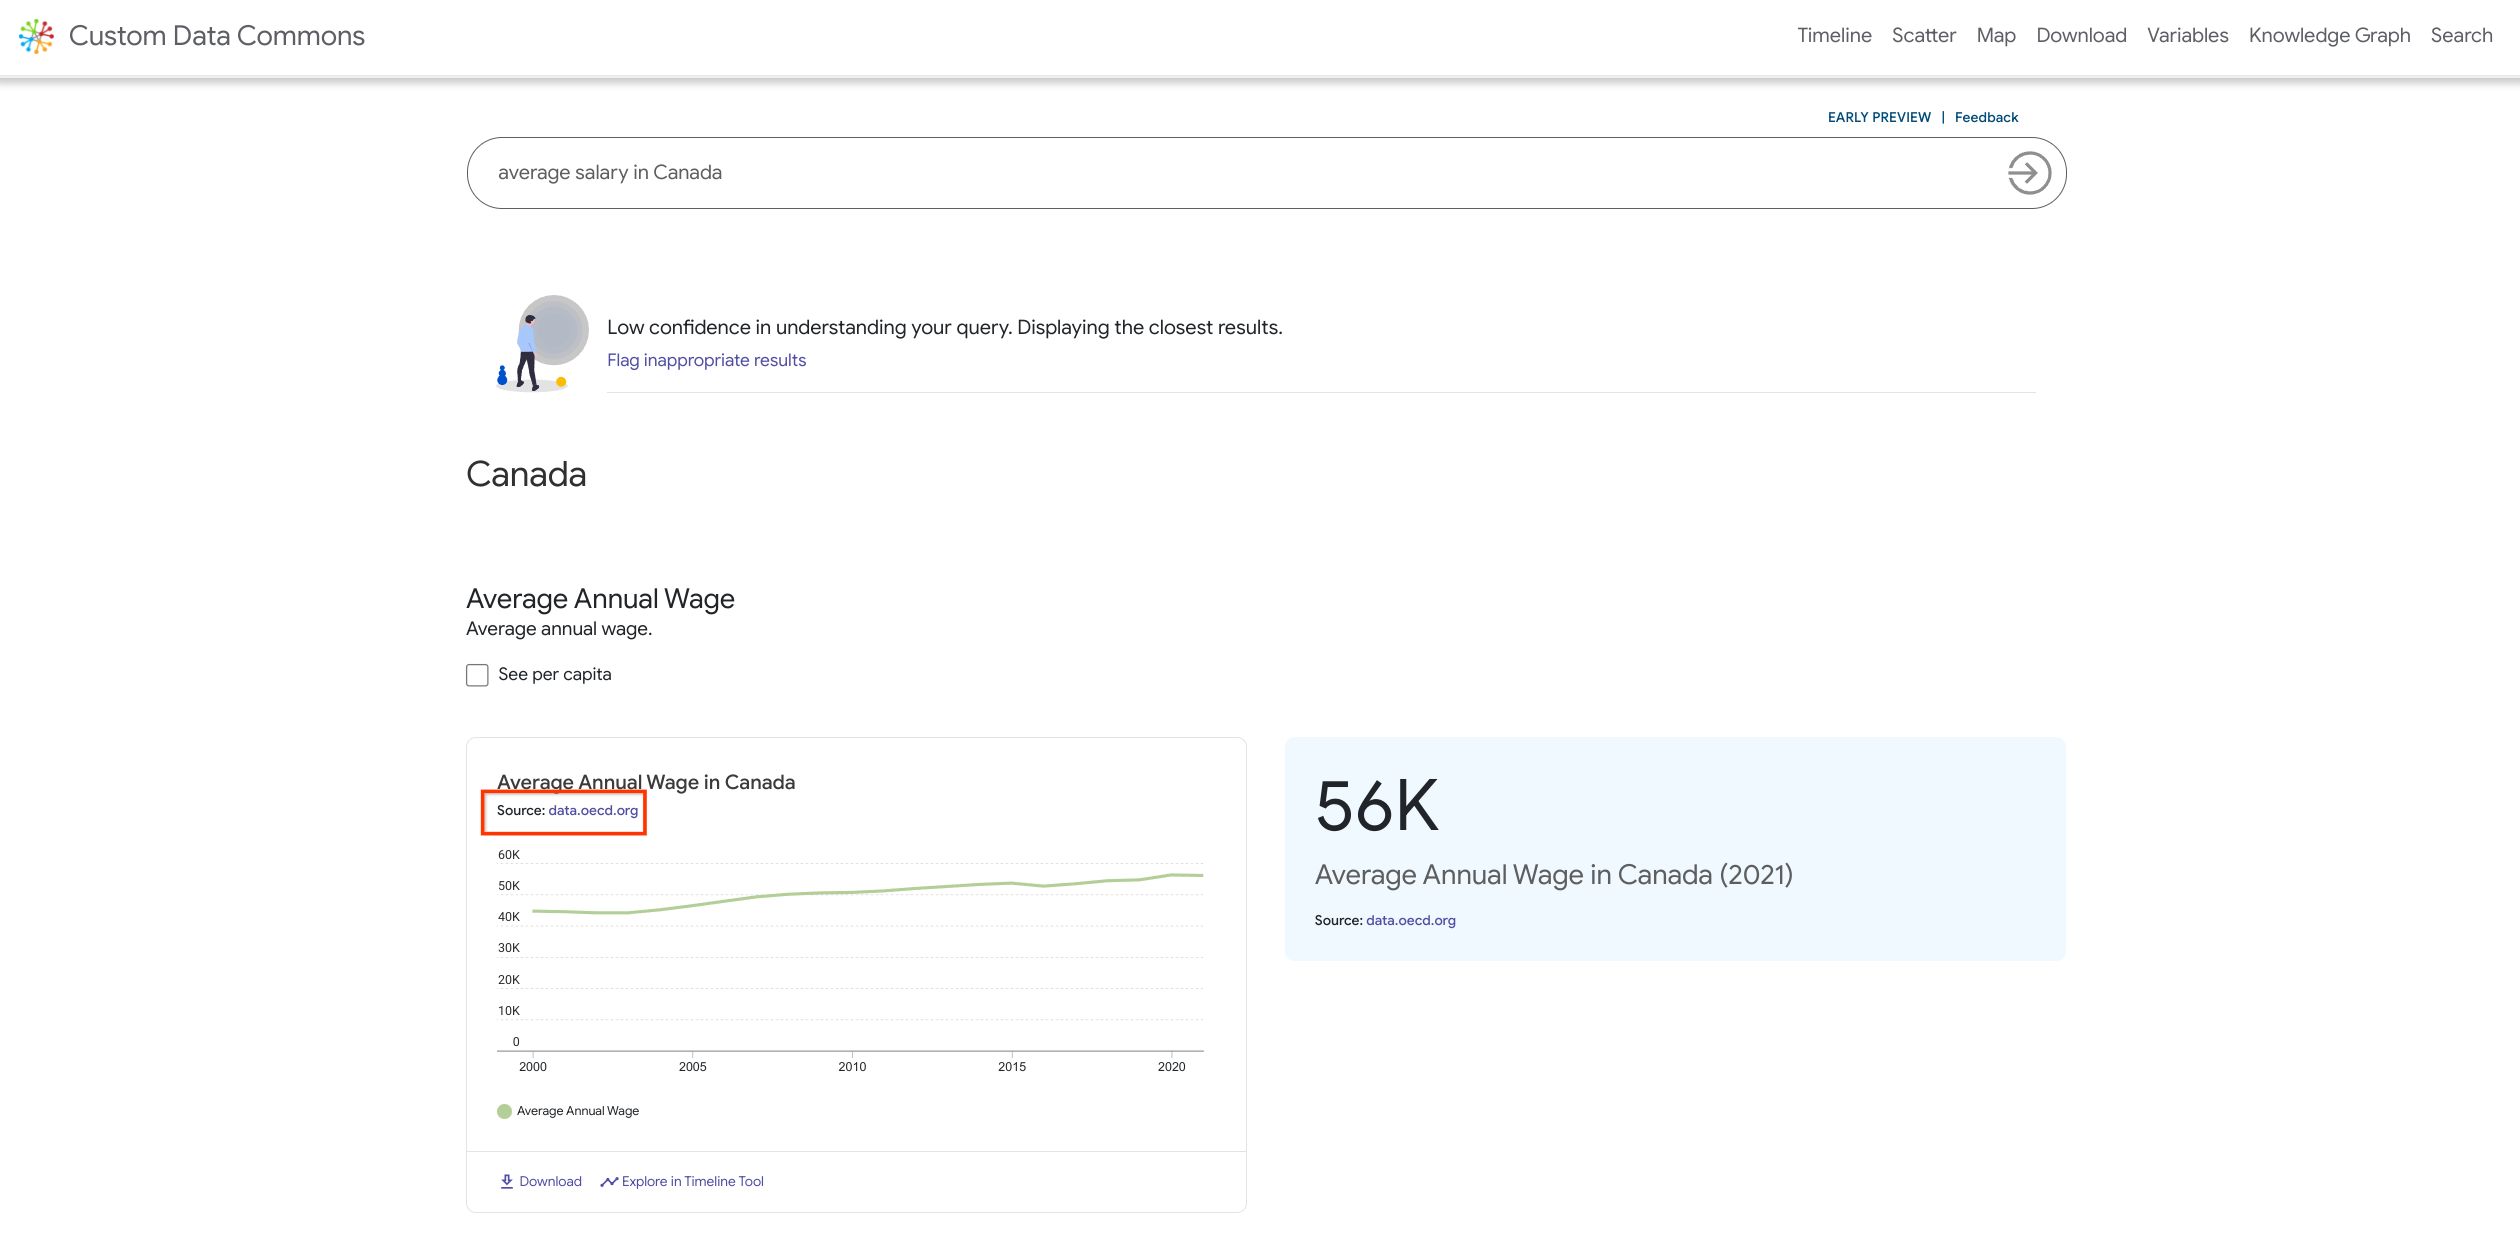
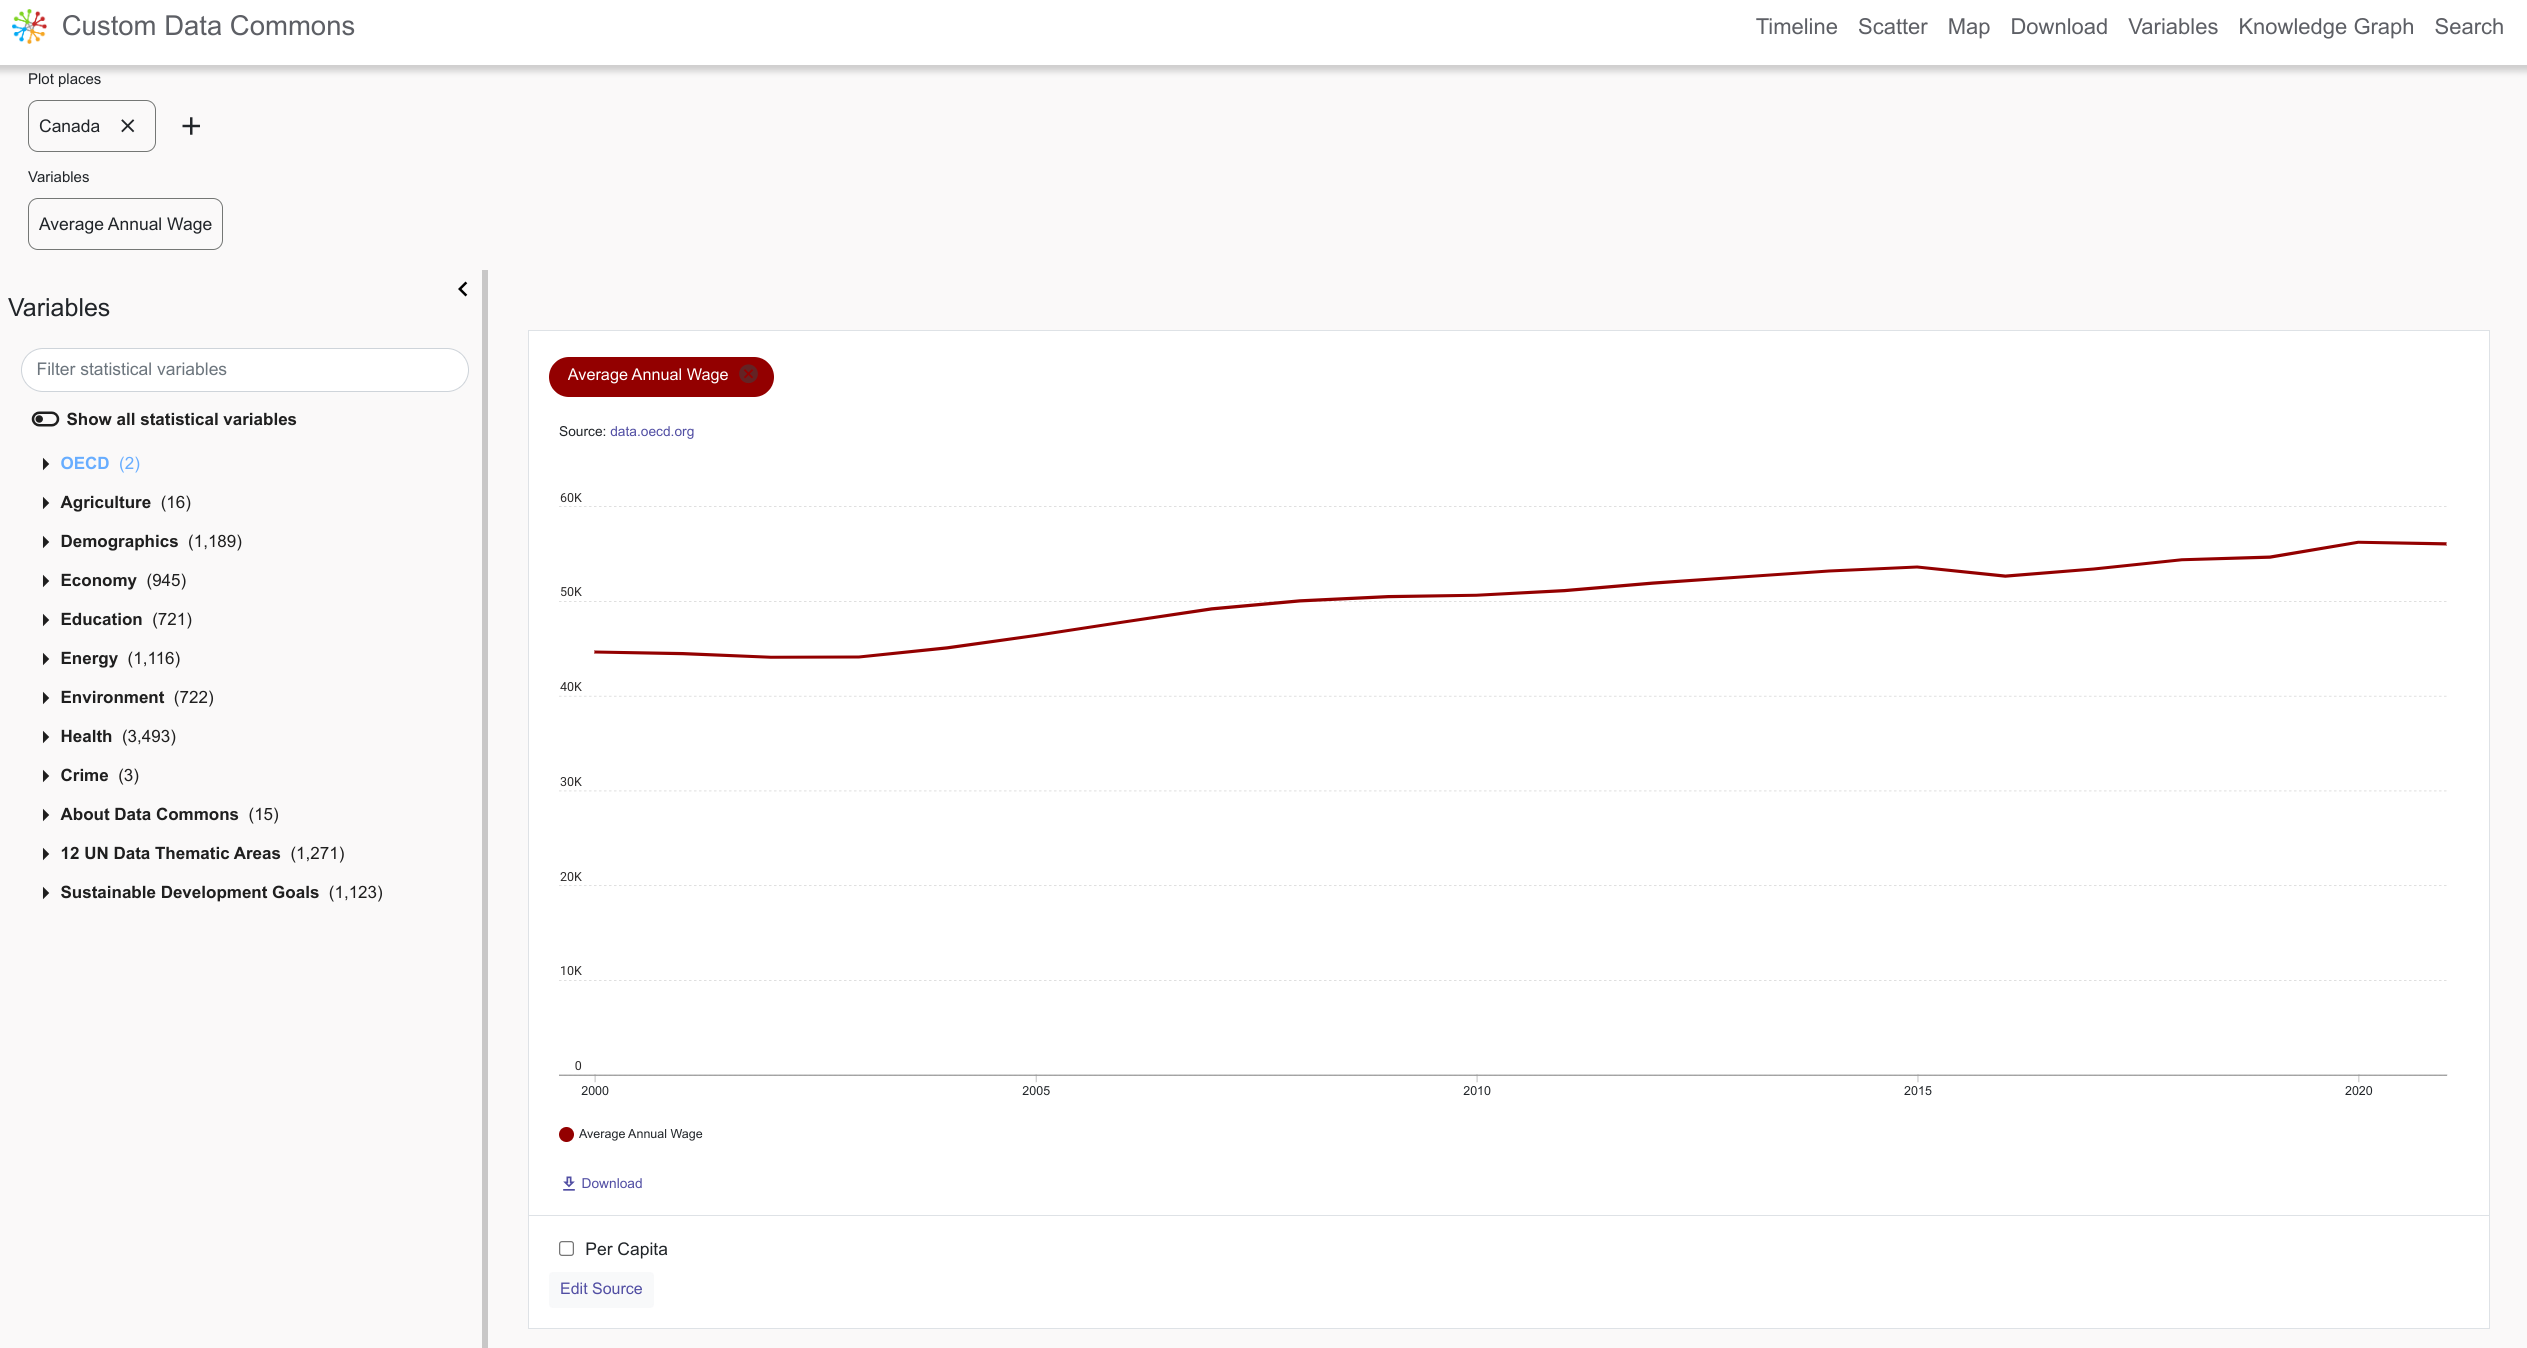
Update tools (#413)
* stable release doc

* Minor formatting fixes

* Removed references to personal directories.

* Update links to renamed file.

* fix link Markdown

* Added alternate procedure for recloning.

* Fixes from Keyur

* fixed description of releases

* Updated instructions and screenshots for new tools UI.

* Added new screenshot

* Updated instructions and screenshots for new tools UI.

* Added new screenshot

diff --git a/custom_dc/quickstart.md b/custom_dc/quickstart.md
@@ -178,13 +178,17 @@ Tip: When you restart the Docker instance, all data in the SQLite database is lo
 -v $PWD/custom_dc/sample/datacommons:/sqlite
 ```
 
-Now visit the Timeline explorer at [http://localhost:8080/tools/timeline](http://localhost:8080/tools/timeline). You'll now see the new variables and can explore the new data. Try entering a country:
+Now click the **Timeline** link to visit the Timeline explorer. Try entering a country and click **Continue**. Now, in the **Select variables** tools, you'll see the new variables:
 
 ![screenshot_timeline](/assets/images/custom_dc/customdc_screenshot2.png){: width="900"}
 
-To issue natural language queries, click the **Search** link or browse to [http://localhost:8080/explore](http://localhost:8080/explore). Try NL queries against the sample data you just loaded, e.g. "Average annual wages in Canada".
+Select one (or both) and click **Display** to show the timeline graph:
 
-![screenshot_search](/assets/images/custom_dc/customdc_screenshot3.png){: width="900"}
+![screenshot_display](/assets/images/custom_dc/customdc_screenshot3.png){: width="900"}
+
+To issue natural language queries, click the **Search** link. Try NL queries against the sample data you just loaded, e.g. "Average annual wages in Canada".
+
+![screenshot_search](/assets/images/custom_dc/customdc_screenshot3a.png){: width="900"}
 
 Note that NL support increases the startup time of your server and consumes more resources. If you don't want NL functionality, you can disable it by updating the `ENABLE_MODEL` flag in `sqlite_env.list` from `true` to `false`.
 
